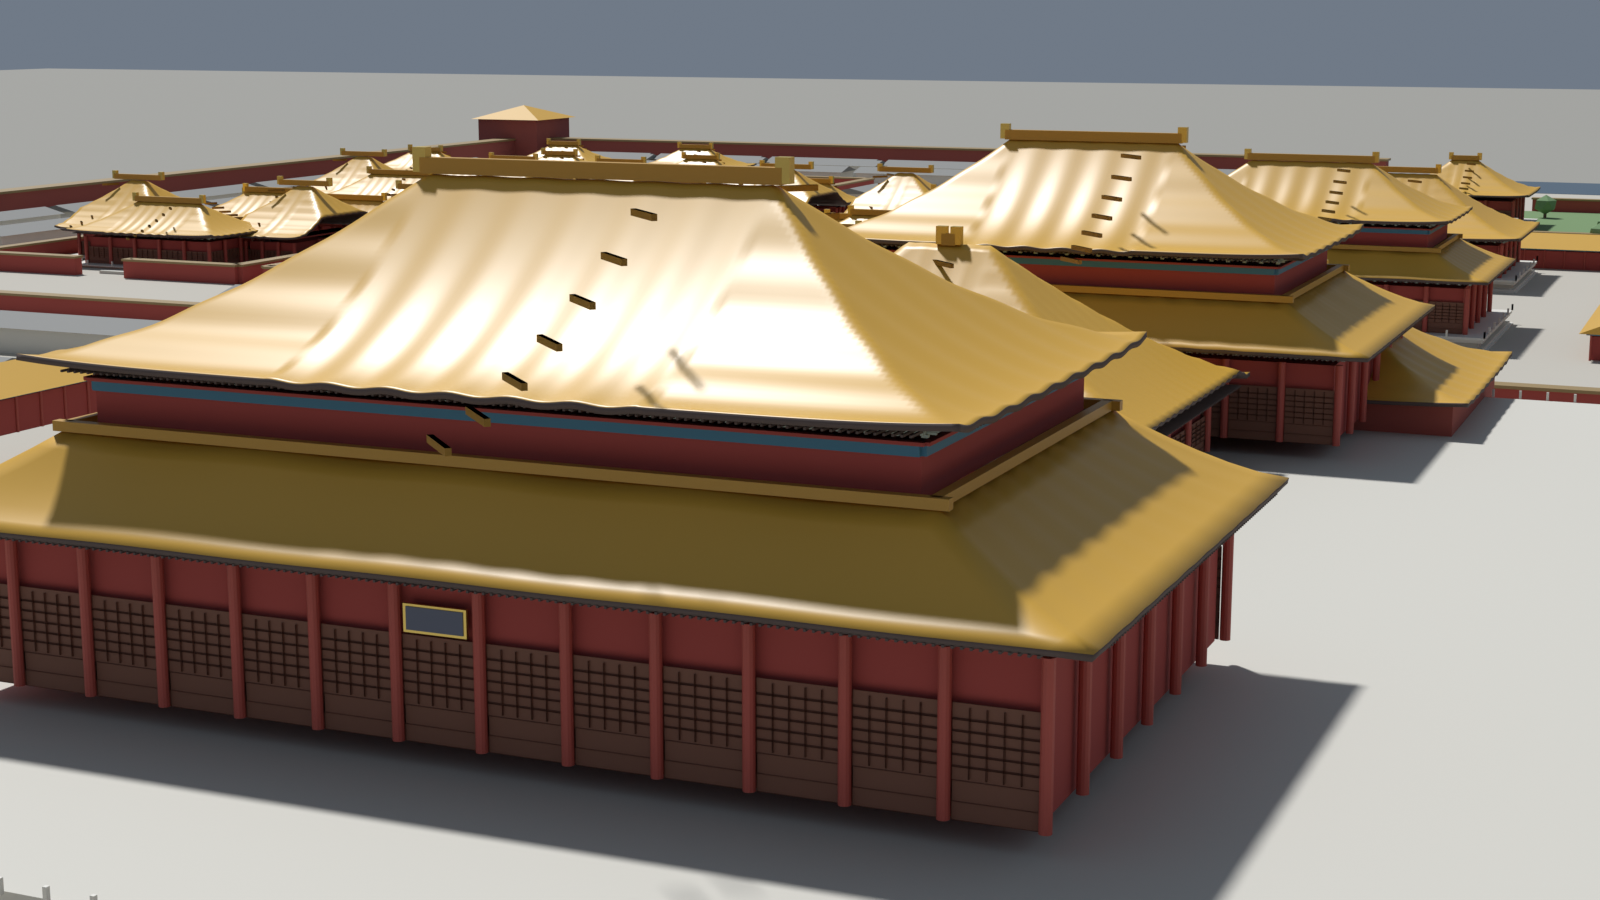
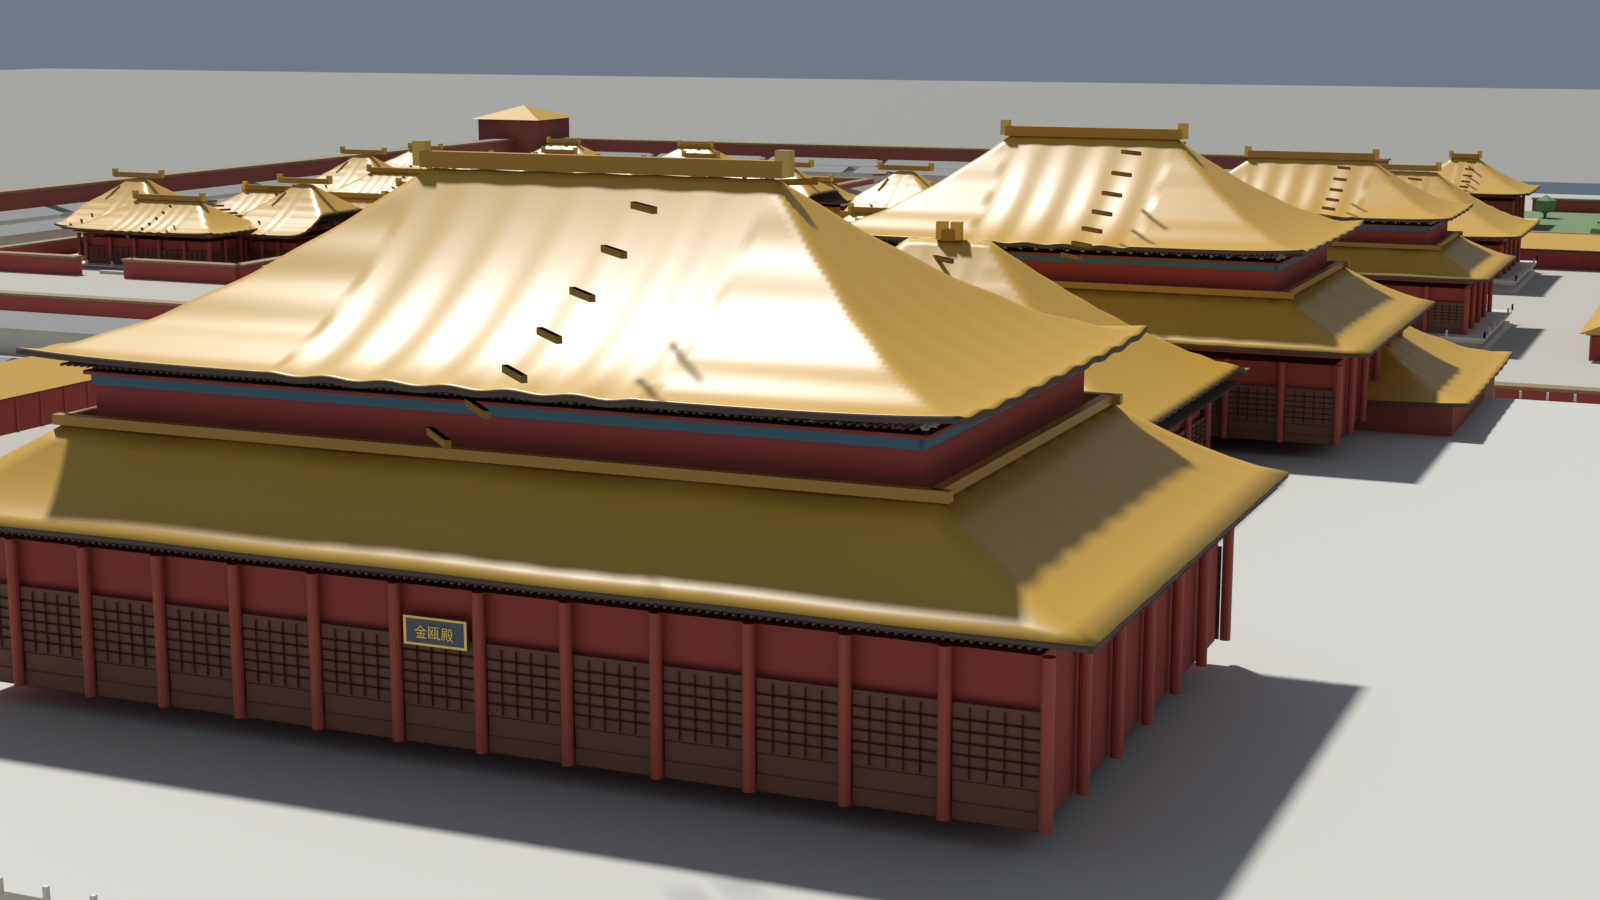
feat(palace): 精模四轮——匾额上字（金瓯殿）、檐口抬高露斗拱、重檐分层可读

diff --git a/tools/palace/precise_lib.py b/tools/palace/precise_lib.py
@@ -460,7 +460,7 @@ def hall(name, w, d, bays=None, dbays=None, z=0.0, storeys=1,
     box(f"{name}·墙身", w - 1.4, d - 1.4, col_h - 0.2, 0, 0, z0, MAT["wall"])
     beams(xs, ys, z0 + col_h, 0.9)
     ring_beam(f"{name}·平板枋", w + 1, d + 1, z0 + col_h + 0.9, 0.28, 0.7, MAT["wall"])
-    eave_lo = z0 + col_h + 1.18
+    eave_lo = z0 + col_h + 1.68   # 檐口抬高，露出斗拱
     if lod > 0:
         dougong_ring(w + 1, d + 1, eave_lo - 0.62, lod=lod)
         rafter_band(f"{name}·椽", w + 1, d + 1, eave_lo - 0.12, depth=3.4)
@@ -515,10 +515,31 @@ def hall(name, w, d, bays=None, dbays=None, z=0.0, storeys=1,
 
     if plaque:
         zz = z0 + col_h * 0.72
-        box(name + "·匾框", min(5.2, w * 0.12), 0.28, min(2.1, col_h * 0.2), 0, -d / 2 - 0.12,
-            zz - 0.2, MAT["gold"])
-        box(name + "·匾", min(4.7, w * 0.11), 0.32, min(1.72, col_h * 0.17), 0, -d / 2 - 0.16,
-            zz, MAT["plaque"])
+        pw, ph = min(5.2, w * 0.12), min(2.1, col_h * 0.2)
+        box(name + "·匾框", pw, 0.28, ph, 0, -d / 2 - 0.12, zz - ph / 2, MAT["gold"])
+        box(name + "·匾", pw * 0.9, 0.32, ph * 0.82, 0, -d / 2 - 0.16, zz - ph * 0.41,
+            MAT["plaque"])
+        cu = bpy.data.curves.new(name + "·匾文", type="FONT")
+        cu.body = plaque
+        cu.size = ph * 0.52
+        cu.align_x = "CENTER"
+        cu.align_y = "CENTER"
+        cu.extrude = 0.03
+        for fp in (r"C:\Windows\Fonts\simhei.ttf", r"C:\Windows\Fonts\msyh.ttc"):
+            try:
+                cu.font = bpy.data.fonts.load(fp)
+                break
+            except Exception:
+                continue
+        ob = bpy.data.objects.new(name + "·匾文", cu)
+        _col().objects.link(ob)
+        ob.location = (0, -d / 2 - 0.36, zz)
+        ob.rotation_euler = (math.pi / 2, 0, 0)
+        ob.data.materials.append(MAT["gold"])
+        bpy.ops.object.select_all(action="DESELECT")
+        ob.select_set(True)
+        bpy.context.view_layer.objects.active = ob
+        bpy.ops.object.convert(target="MESH")
 
 
 def gate_house(name, w, d, z=0.0, h=9.0):

diff --git a/tools/palace/build_massing.py b/tools/palace/build_massing.py
@@ -347,7 +347,7 @@ def add_struct_precise(st):
     m = max(3, int(round(d / 9)))
     before = set(col.objects)
     PL.hall(st["name"], w, d, bays=[w / n] * n, dbays=[d / m] * m, z=z, storeys=storeys,
-            base_h=base_h, col_h=h * 0.92, plaque=(st["name"] == "金瓯殿"), lod=lod,
+            base_h=base_h, col_h=h * 0.92, plaque=("金瓯殿" if st["name"] == "金瓯殿" else None), lod=lod,
             stairs=(w >= 30), balustrade=(w >= 34))
     for ob in set(col.objects) - before:      # 构件库按原点建，整体挪到院落实位
         ob.location.x += x
